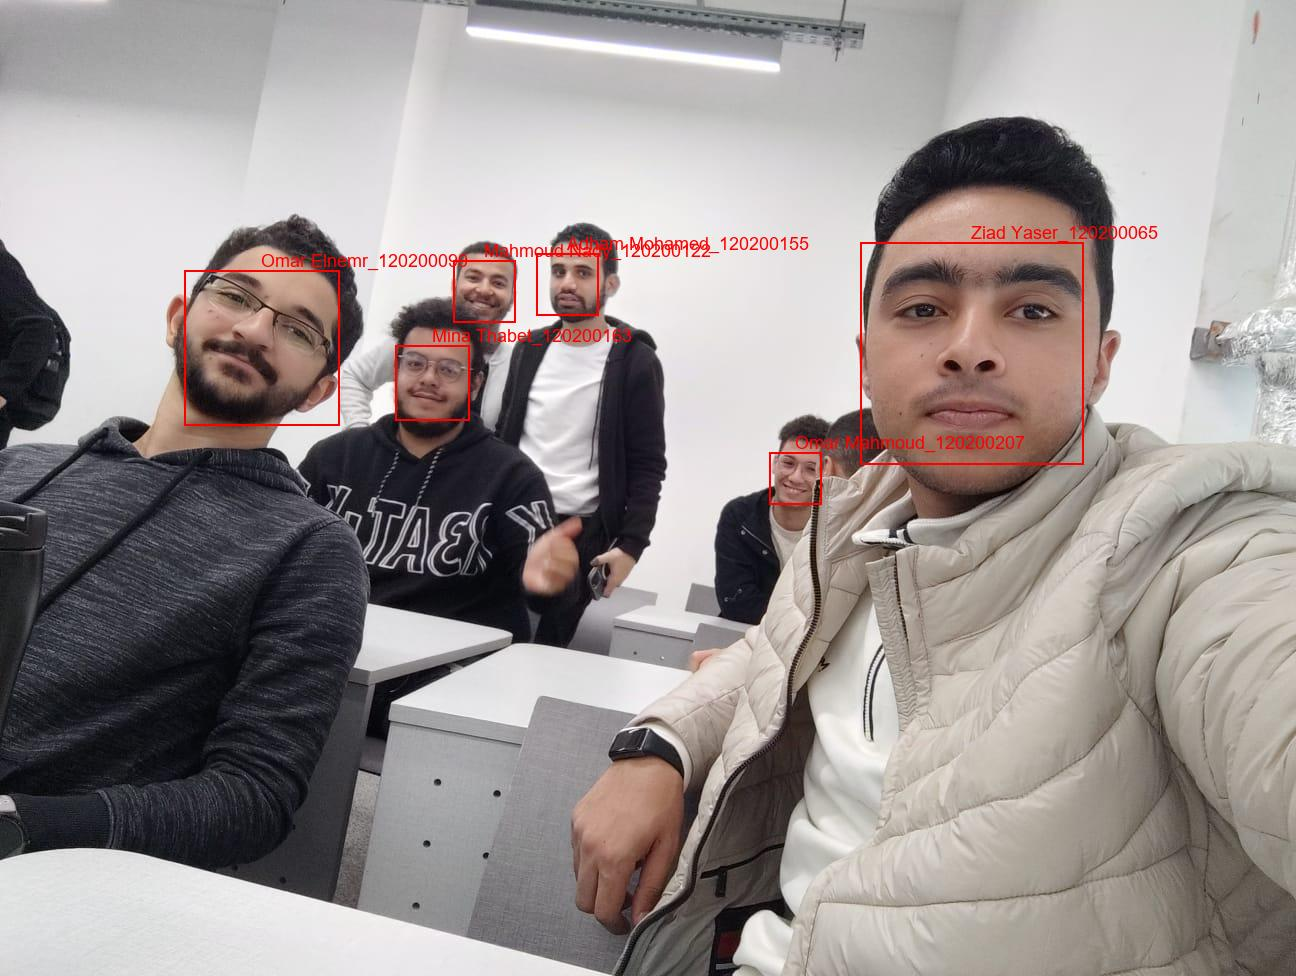
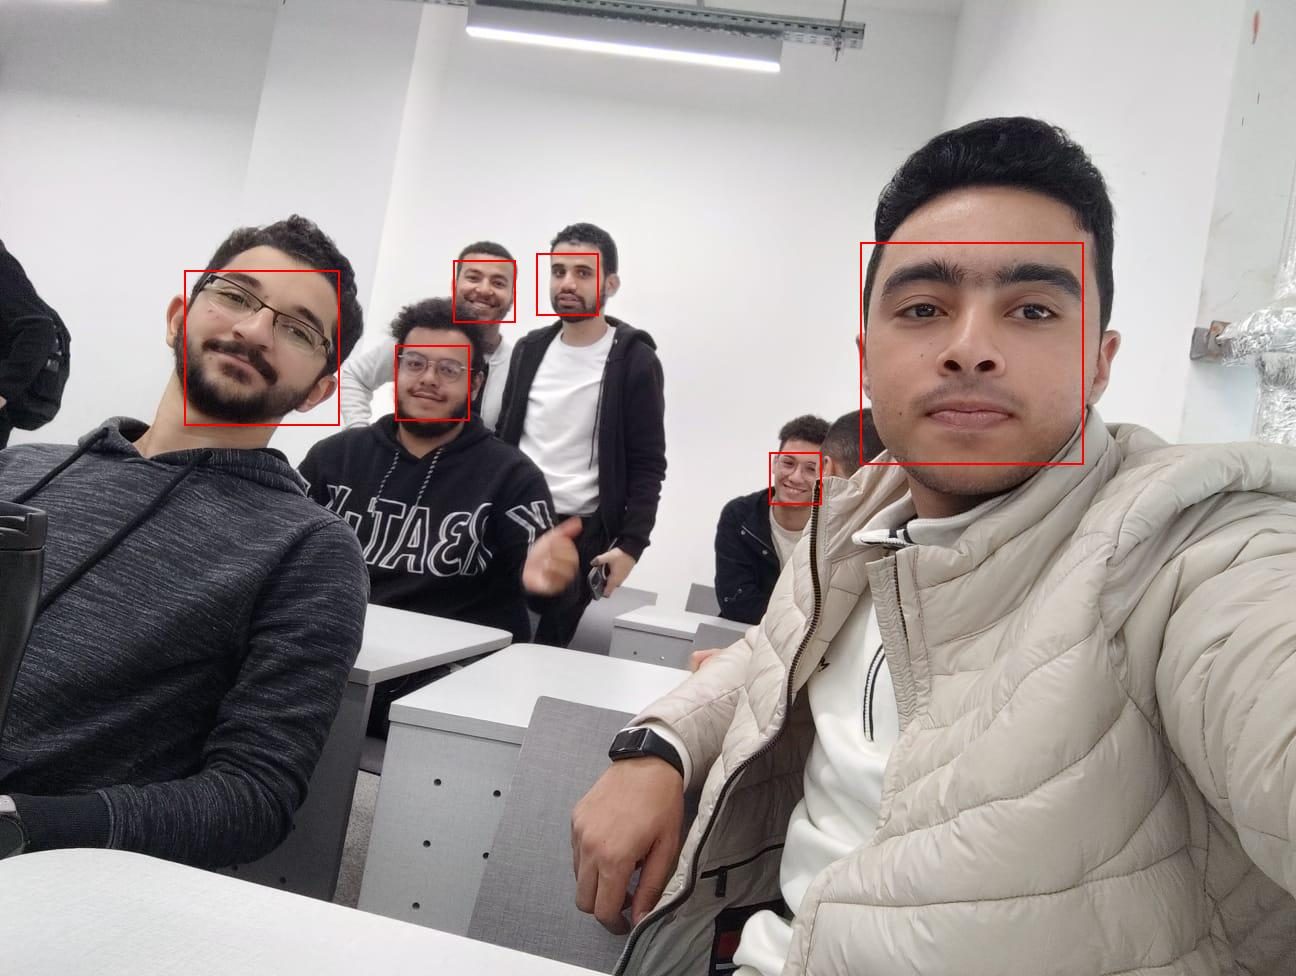
edit woking code

diff --git a/mobile application.py b/mobile application.py
@@ -31,7 +31,70 @@ face_model.fit(face_encodings, labels)
 def allowed_file(filename):
     return '.' in filename and filename.rsplit('.', 1)[1].lower() in ALLOWED_EXTENSIONS
 
+# ...
+
 def detect_faces(image_path):
+    # Load the test image
+    test_image = face_recognition.load_image_file(image_path)
+
+    # Find face locations in the image
+    face_locations = face_recognition.face_locations(test_image)
+
+    if len(face_locations) > 0:
+        # Get face encodings
+        face_encodings = face_recognition.face_encodings(test_image, face_locations)
+
+        # Predict labels for each face using the machine learning model
+        predictions = face_model.predict_proba(face_encodings)
+
+        # Prepare detected faces data
+        detected_faces = []
+        for i, (face_location, prediction) in enumerate(zip(face_locations, predictions)):
+            top, right, bottom, left = face_location
+            label = face_model.classes_[prediction.argmax()]
+
+            # Create a separate image for each detected face
+            face_image = test_image[top:bottom, left:right]
+
+            # Save the individual face image with the label
+            individual_image_path = os.path.join(app.config['DETECTED_FOLDER'], f"face_{i+1}_{label}.jpg")
+            individual_pil_image = Image.fromarray(face_image)
+            individual_draw = ImageDraw.Draw(individual_pil_image)
+            individual_draw.text((0, 0), label, fill="red")  # Add label below the face
+
+            individual_pil_image.save(individual_image_path)
+
+            detected_faces.append({
+                "label": label,
+                "top": top,
+                "right": right,
+                "bottom": bottom,
+                "left": left,
+                "individual_image_path": individual_image_path
+            })
+
+        # Save the image with squares to the detected folder
+        pil_image = Image.fromarray(test_image)
+        draw = ImageDraw.Draw(pil_image)
+
+        for face_location in face_locations:
+            top, right, bottom, left = face_location
+            draw.rectangle([left, top, right, bottom], outline="red", width=2)
+
+        # Save the image with squares to the detected folder
+        detected_image_path = os.path.join(app.config['DETECTED_FOLDER'], os.path.basename(image_path))
+        pil_image.save(detected_image_path)
+
+        # Convert the image to base64
+        with open(detected_image_path, "rb") as image_file:
+            encoded_image = base64.b64encode(image_file.read()).decode("utf-8")
+
+        return detected_faces, detected_image_path, encoded_image
+    else:
+        return None, None, None
+
+# ...
+
     # Load the test image
     test_image = face_recognition.load_image_file(image_path)
 

diff --git a/mobile_image and label response.py b/mobile_image and label response.py
@@ -54,13 +54,17 @@ def detect_faces(image_path):
             prediction = face_model.predict_proba([face_encoding])
             label = face_model.classes_[prediction.argmax()]
 
-            # Add label above the face square
             # Add label above the face square with reduced font size
             label_position = (left + (right - left) // 2, top - 20)
             font_size = 18  # You can adjust this value as needed
-            font = ImageFont.truetype("arial.ttf", font_size)
-            draw.text(label_position, label, fill="red", font=font)
 
+            try:
+                font = ImageFont.truetype("arial.ttf", font_size)
+            except IOError:
+                # Fallback to default font if "arial.ttf" is not available
+                font = ImageFont.load_default()
+
+            draw.text(label_position, label, fill="red", font=font)
 
         # Save the image with squares and labels to the detected folder
         detected_image_path = os.path.join(app.config['DETECTED_FOLDER'], os.path.basename(image_path))
